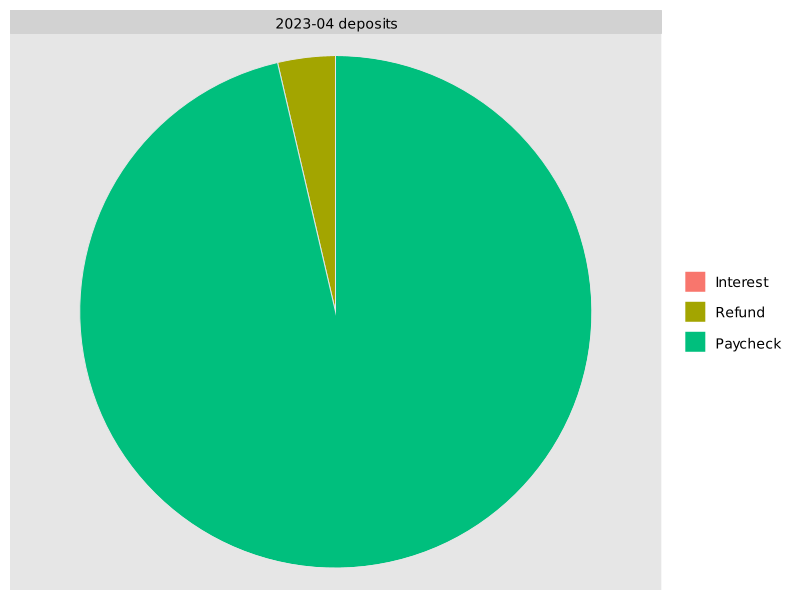
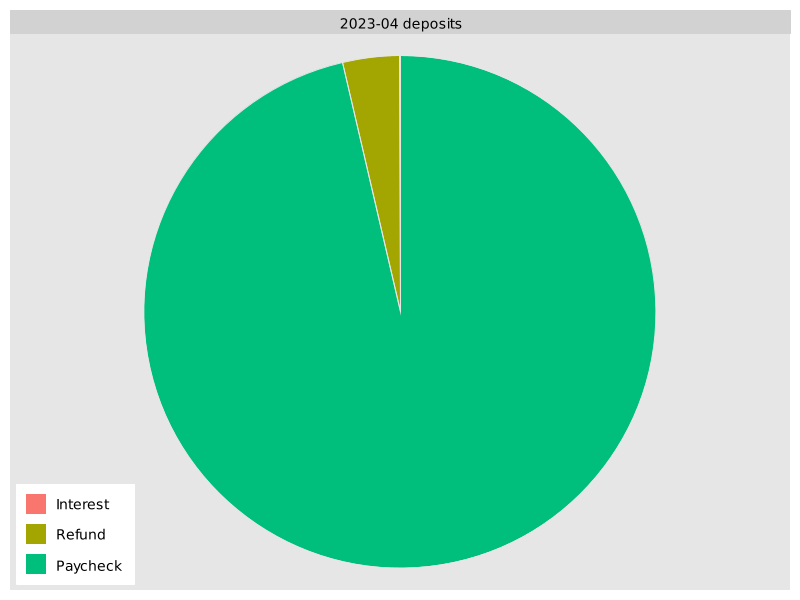
Charts look much nicer, although labels aren't always displaying.

diff --git a/src/BudgetBuddyController.java b/src/BudgetBuddyController.java
@@ -15,6 +15,7 @@ import org.apache.poi.xssf.usermodel.XSSFWorkbook;
 import org.knowm.xchart.BitmapEncoder;
 import org.knowm.xchart.PieChart;
 import org.knowm.xchart.PieChartBuilder;
+import org.knowm.xchart.style.PieStyler;
 import org.knowm.xchart.style.Styler;
 
 import java.io.File;
@@ -223,6 +224,15 @@ public class BudgetBuddyController {
     private void createCharts(String date, Map<String, Double> expenses, Map<String, Double> deposits) {
         PieChart expensesPC = new PieChartBuilder().width(800).height(600).title(date + " expenses").theme(Styler.ChartTheme.GGPlot2).build();
         PieChart depositsPC = new PieChartBuilder().width(800).height(600).title(date + " deposits").theme(Styler.ChartTheme.GGPlot2).build();
+
+        // Styling the pie charts' legend and labels
+        PieStyler eps = expensesPC.getStyler();
+        eps.setLegendPosition(Styler.LegendPosition.InsideSW);
+        eps.setLabelType(PieStyler.LabelType.NameAndPercentage);
+
+        PieStyler dps = depositsPC.getStyler();
+        dps.setLegendPosition(Styler.LegendPosition.InsideSW);
+        dps.setLabelType(PieStyler.LabelType.NameAndPercentage);
 
         for (Map.Entry<String, Double> entry: expenses.entrySet()) {
             expensesPC.addSeries(entry.getKey(), entry.getValue());

diff --git a/README.md b/README.md
@@ -16,9 +16,12 @@ These dependecies are not included in this repo.
 
 
 ## Extensions/TODOs
+- Bug: 'Create Charts' displays old charts from previous run instead of newly created charts.
 - Need to clear output directory before saving the pie charts, so the user can 
 run BudgetBuddy with different workbooks.
 - Give users the option to save to a custom directory.
+- Check if the program compiles from command line.
 - Need better error handling if the Excel file isn't formatted properly.
 - Pie charts should display the total amount spend/deposited in addition to percentages. 
 - Use Gradle to manage dependencies instead of IntelliJ.
+- Create a binary/executable
